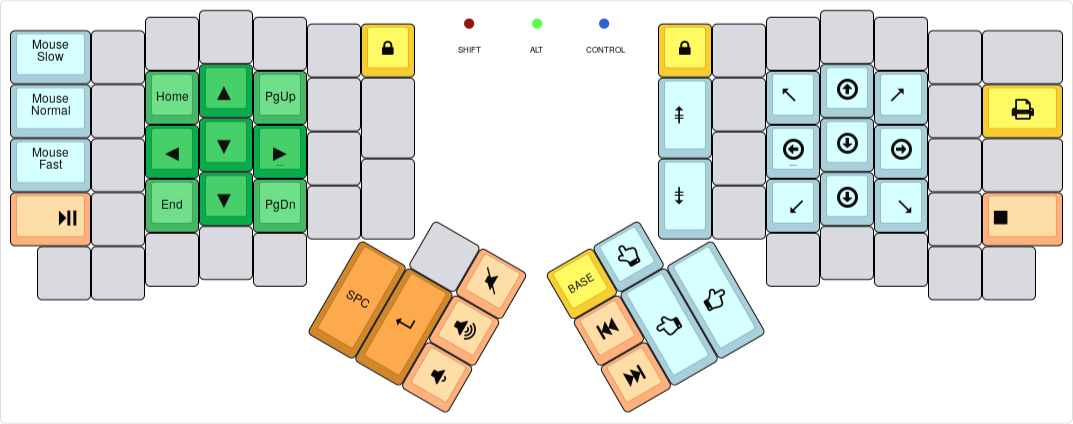
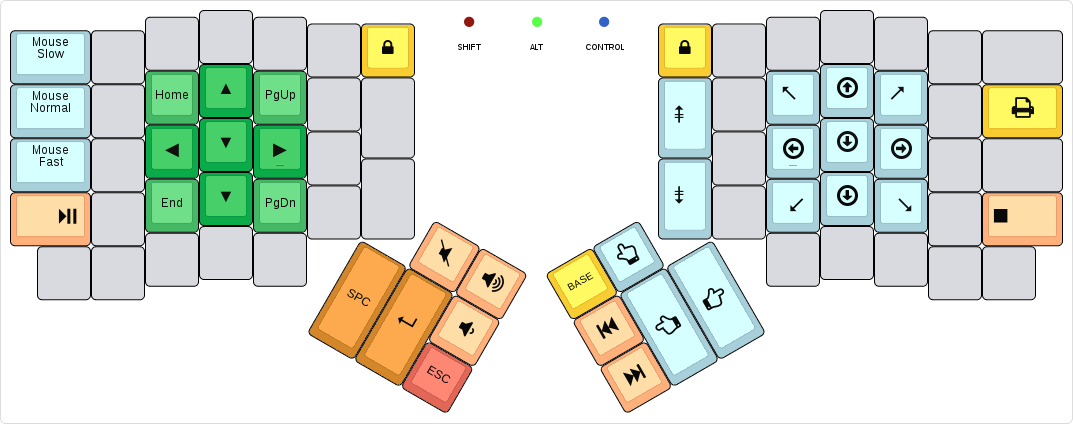
NMDIA: Restore the ESC key
Slide up the volume keys on the left thumb cluster, to make space for
the usual ESC key. Fixes #57.

diff --git a/keymap.c b/keymap.c
@@ -357,11 +357,11 @@ const uint16_t PROGMEM keymaps[][MATRIX_ROWS][MATRIX_COLS] = {
  *      |      |      |      |      |      |                                       |      |      |      |      |      |
  *      `----------------------------------'                                       `----------------------------------'
  *                                         ,-------------.           ,-------------.
- *                                         |      | Mute |           | BASE | MClk |
+ *                                         | Mute | VlUp |           | BASE | MClk |
  *                                  ,------|------|------|           |------+------+------.
- *                                  |      |      | VlUp |           | Prev |Left  |Right |
+ *                                  |      |      | VlDn |           | Prev |Left  |Right |
  *                                  |  SPC | Enter|------|           |------| Click| Click|
- *                                  |      |      | VlDn |           | Next |      |      |
+ *                                  |      |      | ESC  |           | Next |      |      |
  *                                  `--------------------'           `--------------------'
  */
 [NMDIA] = KEYMAP(
@@ -371,9 +371,9 @@ const uint16_t PROGMEM keymaps[][MATRIX_ROWS][MATRIX_COLS] = {
 ,KC_ACL2    ,KC_NO       ,KC_LEFT    ,KC_DOWN ,KC_RIGHT,KC_NO
 ,KC_MPLY    ,KC_NO       ,KC_END     ,KC_DOWN ,KC_PGDN ,KC_NO   ,KC_NO
 ,KC_NO      ,KC_NO       ,KC_NO      ,KC_NO   ,KC_NO
-                                                        ,KC_NO   ,KC_MUTE
-                                                                 ,KC_VOLU
-                                                 ,KC_SPC,KC_ENTER,KC_VOLD
+                                                        ,KC_MUTE ,KC_VOLU
+                                                                 ,KC_VOLD
+                                                 ,KC_SPC,KC_ENTER,M(A_ESC)
 
                                                                      // right hand
                                                                      ,LGUI(KC_L),KC_NO   ,KC_NO   ,KC_NO   ,KC_NO   ,KC_NO    ,KC_NO
